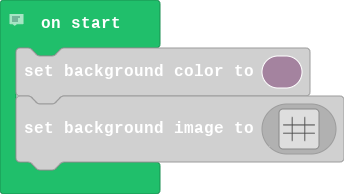
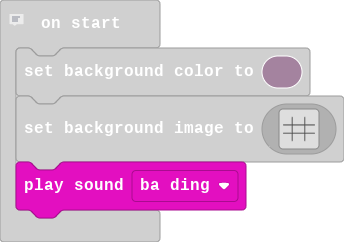
Update main.blocks, main.ts

diff --git a/main.ts b/main.ts
@@ -122,3 +122,4 @@ scene.setBackgroundImage(img`
     .............................................fff...........................................................fff..................................................
     .............................................fff...........................................................fff..................................................
     `)
+music.baDing.play()
